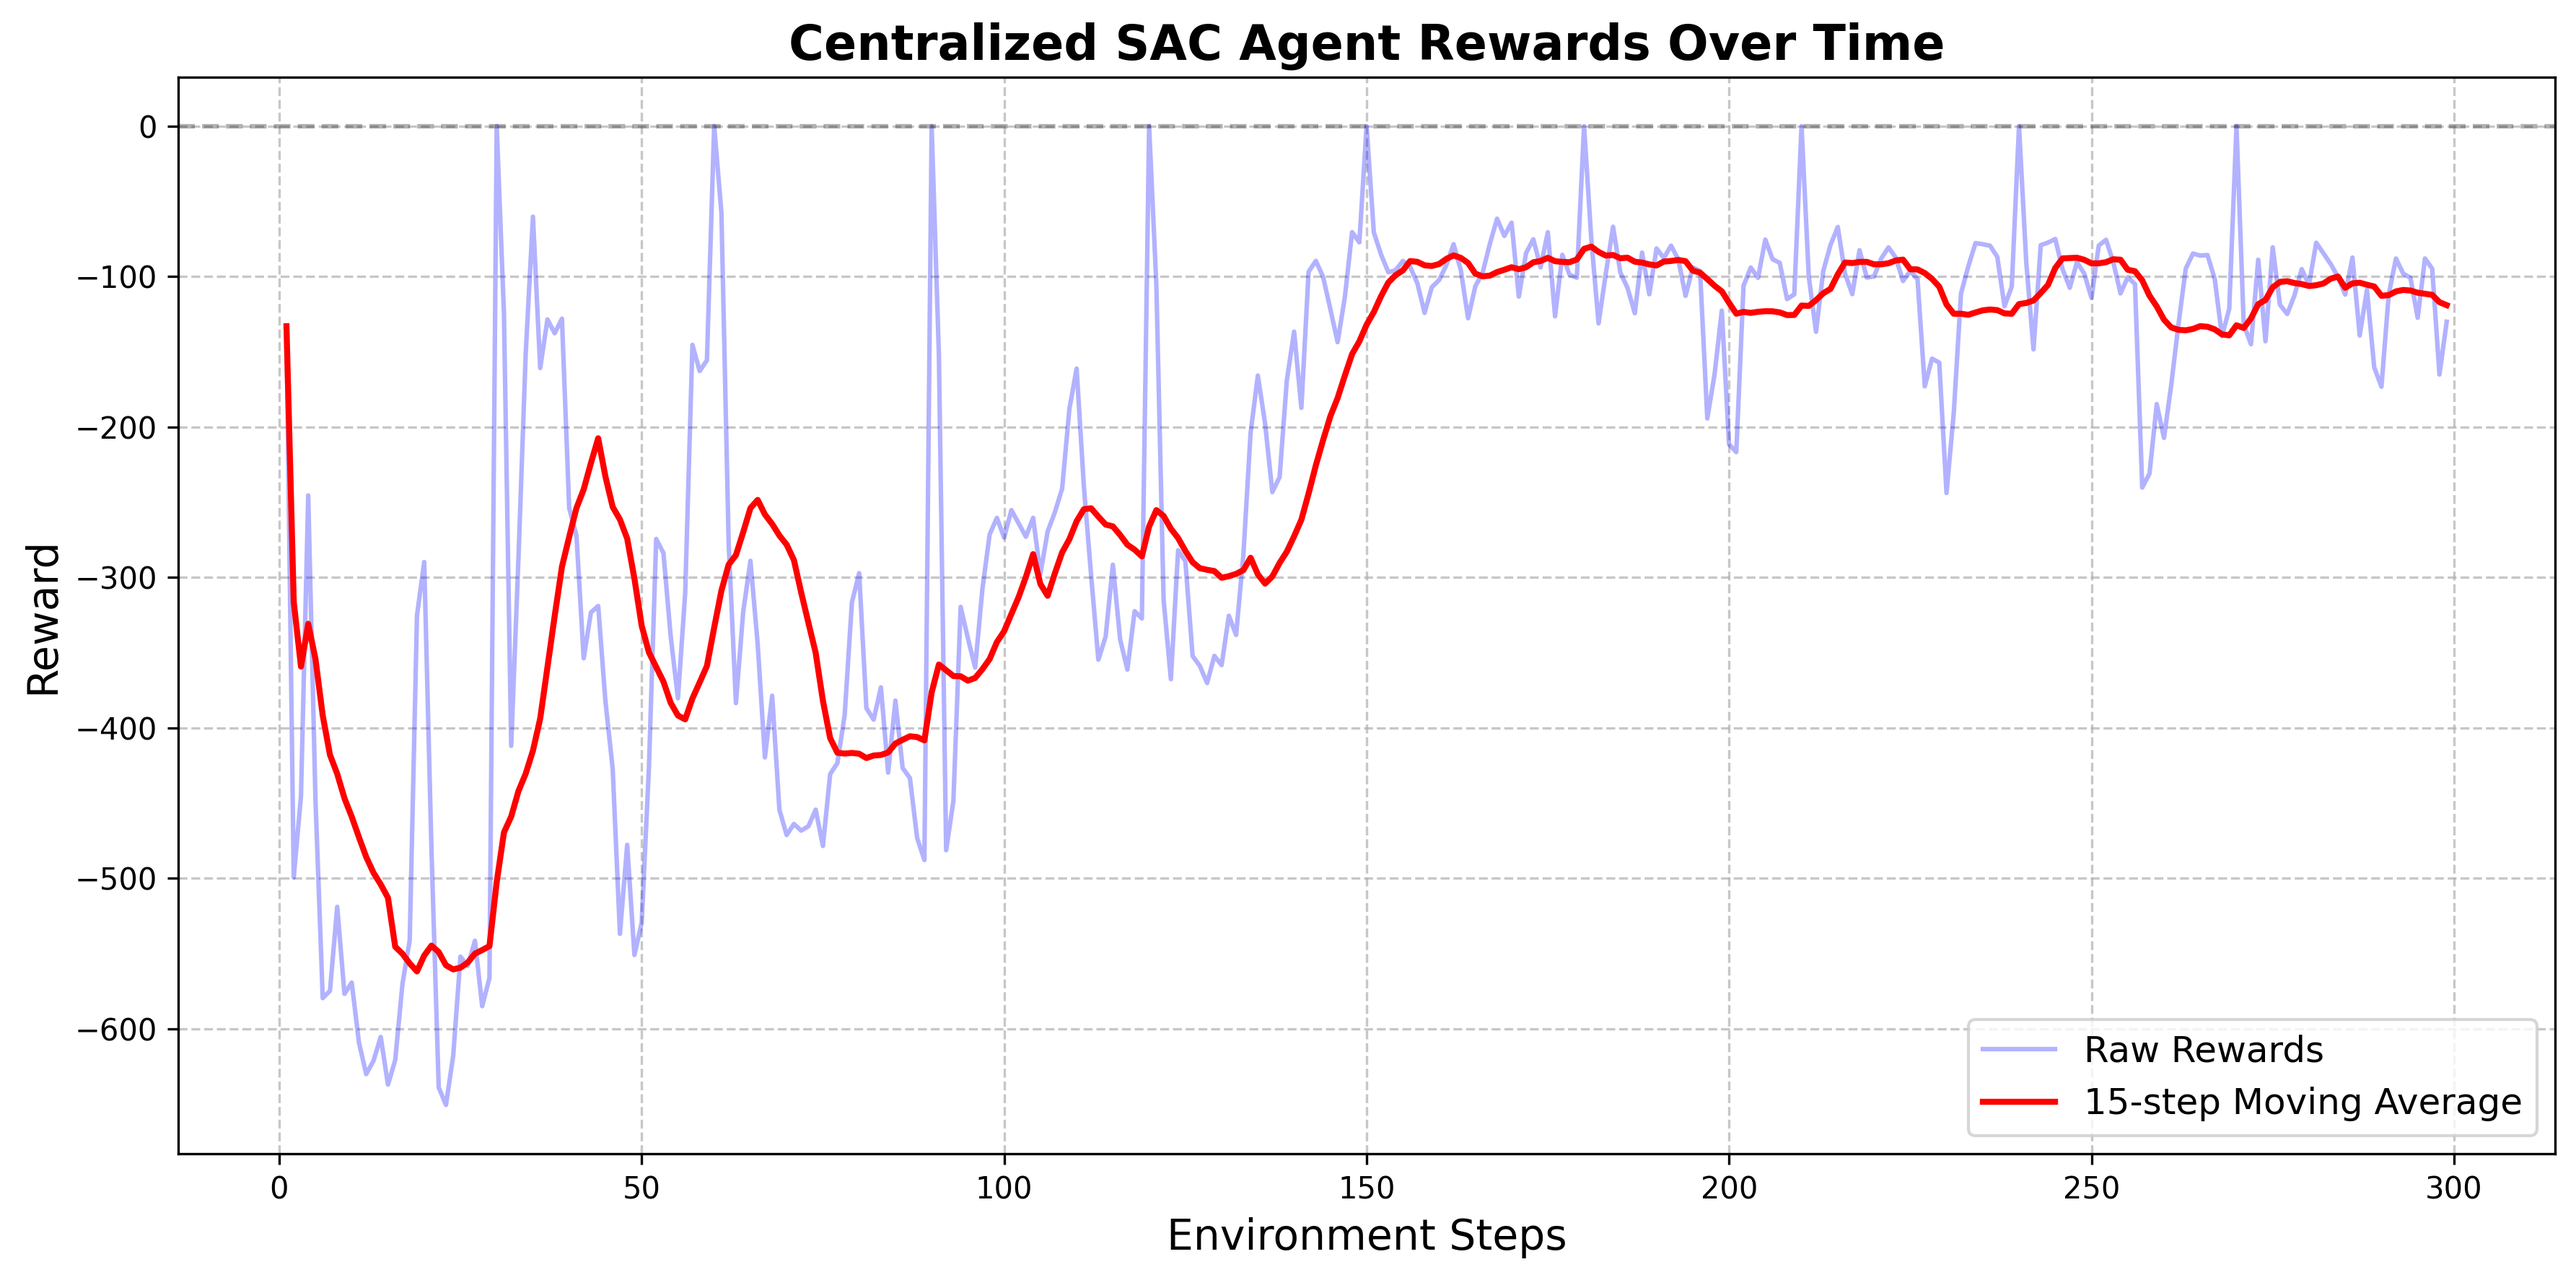
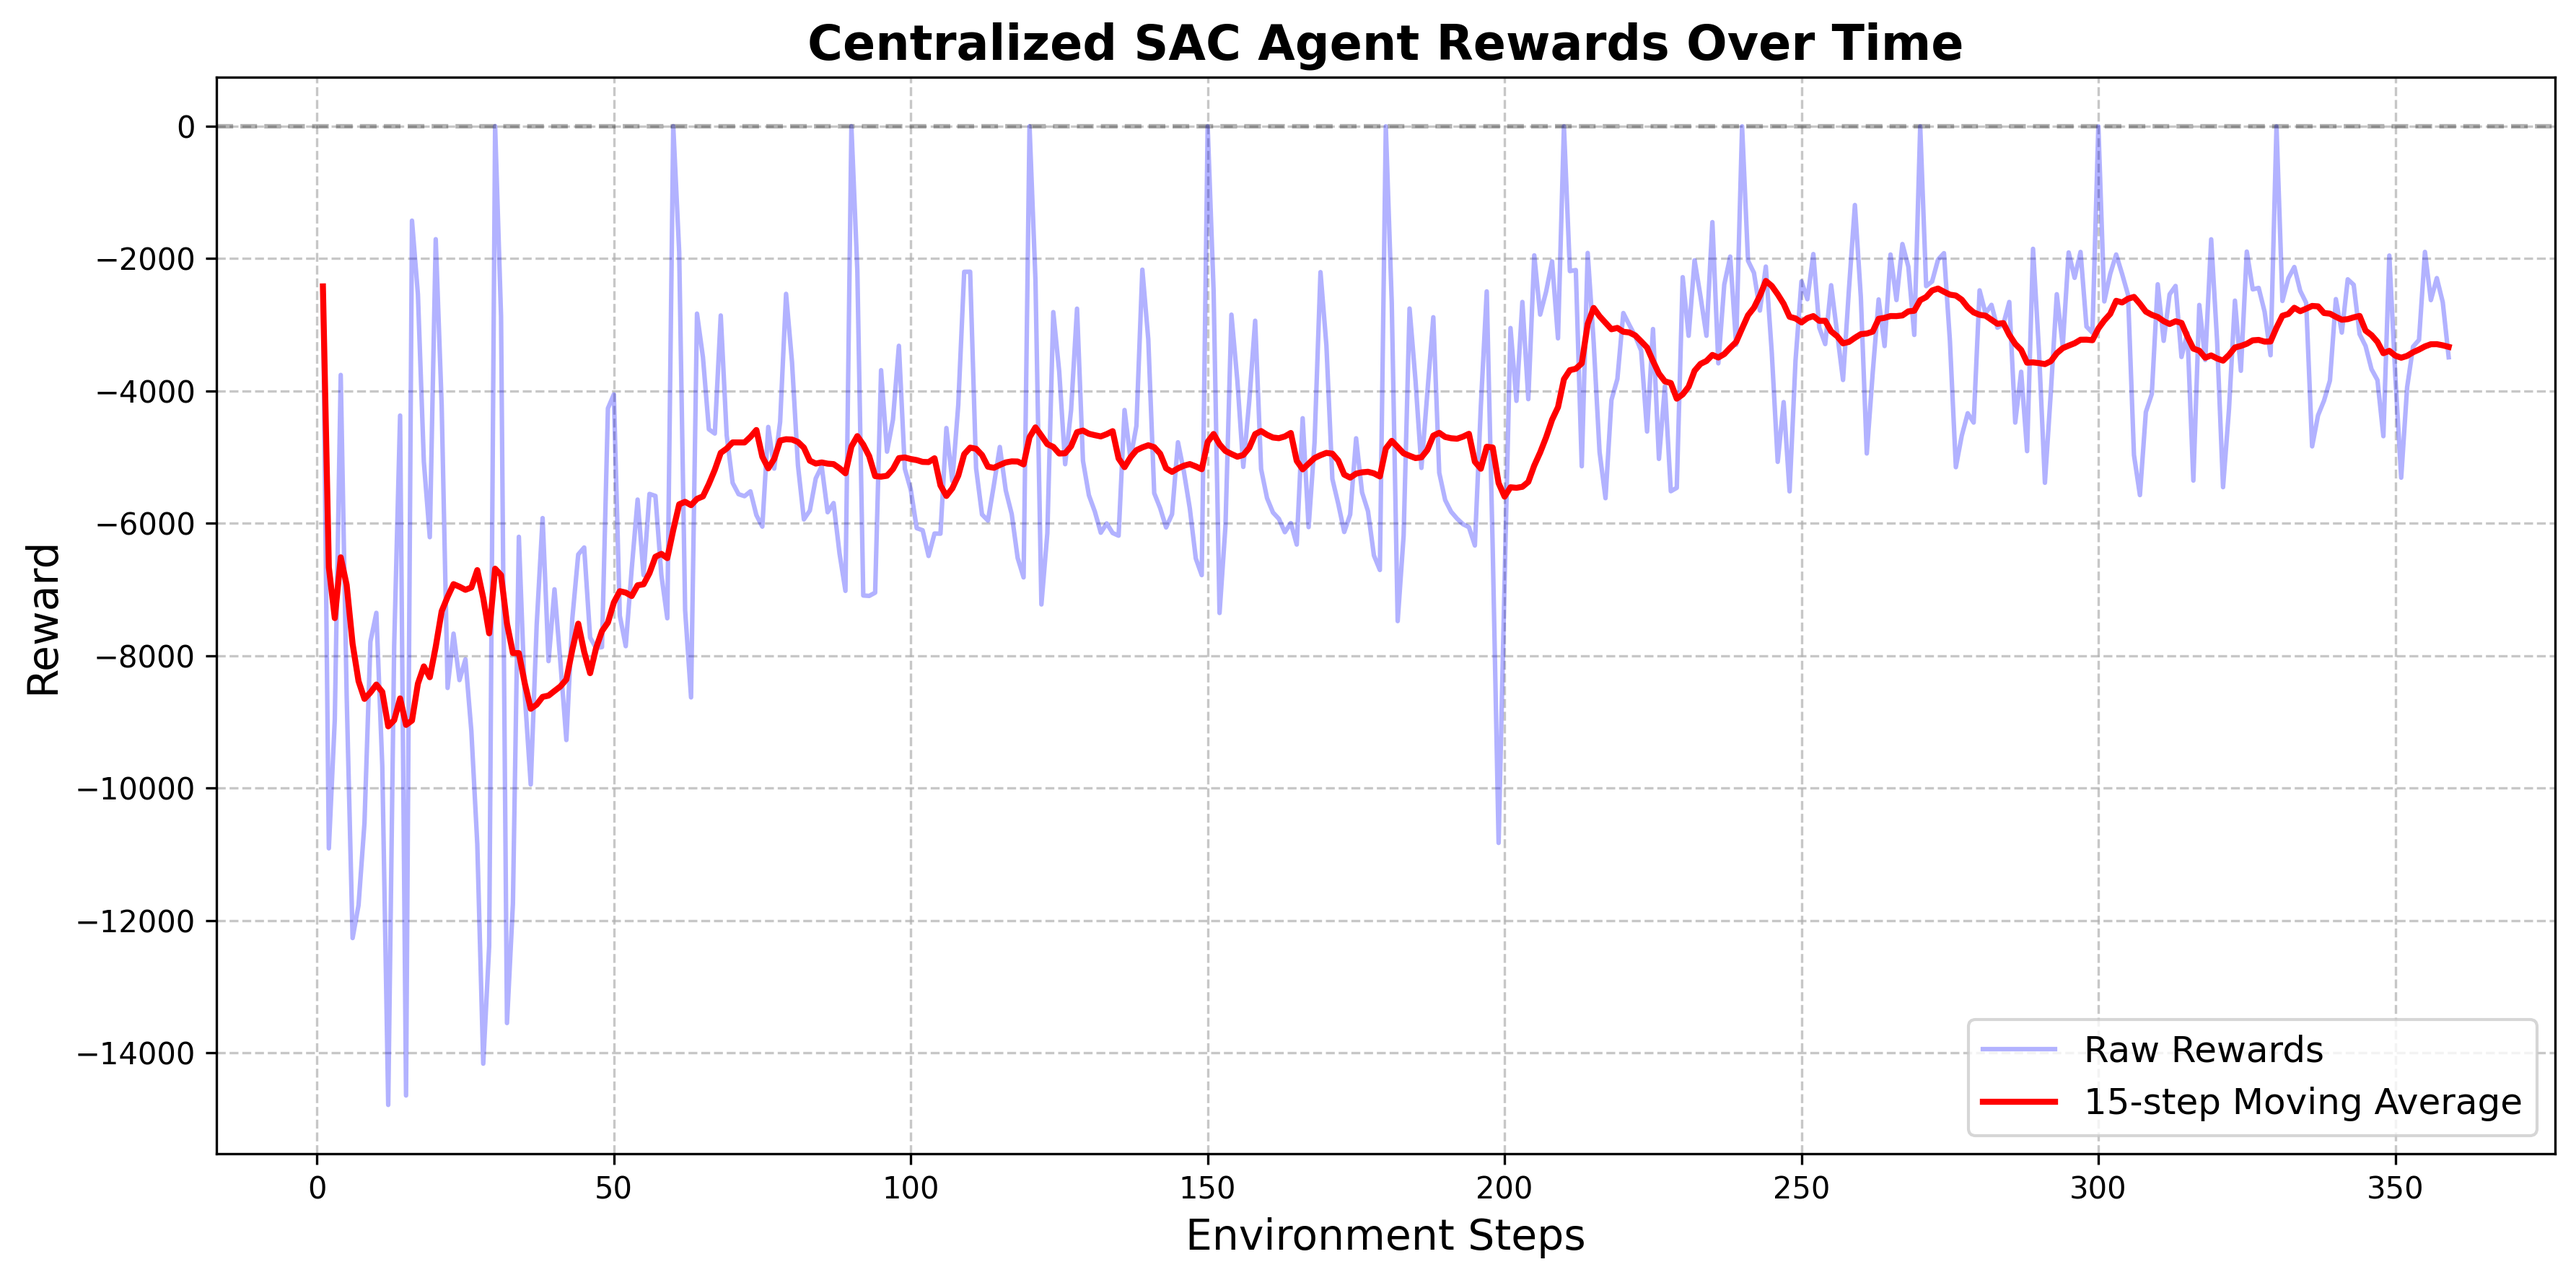
custom reward learning curve

diff --git a/src/reward_function.py b/src/reward_function.py
@@ -60,7 +60,8 @@ class CustomRewardFunction(ComfortReward):
     def _electricity_score(
         self, observations: List[Mapping[str, Union[int, float]]]
     ) -> List[float]:
-        return ComfortReward.calculate(self, observations)
+        electricity_score = ComfortReward.calculate(self, observations)
+        return electricity_score
 
     def _comfort_score(
         self, observations: List[Mapping[str, Union[int, float]]]
@@ -76,7 +77,7 @@ class CustomRewardFunction(ComfortReward):
             temp_difference = np.abs(indoor_temperature - set_point)
 
             if temp_difference > tolerance:
-                reward = - (temp_difference - tolerance) ** 1
+                reward = - (temp_difference - tolerance) ** 2
 
             else:
                 reward = 0
